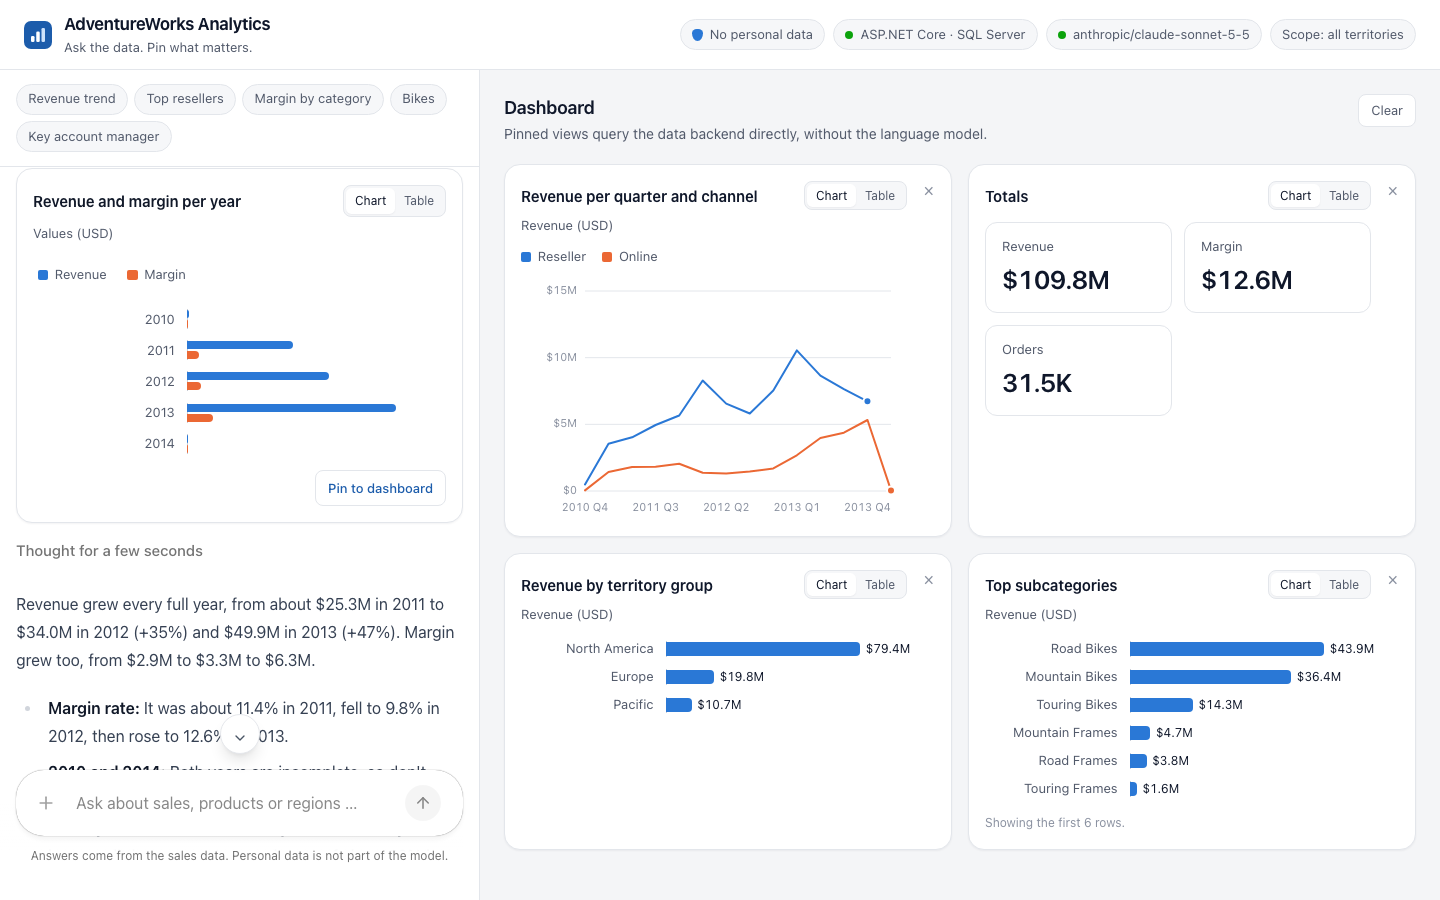
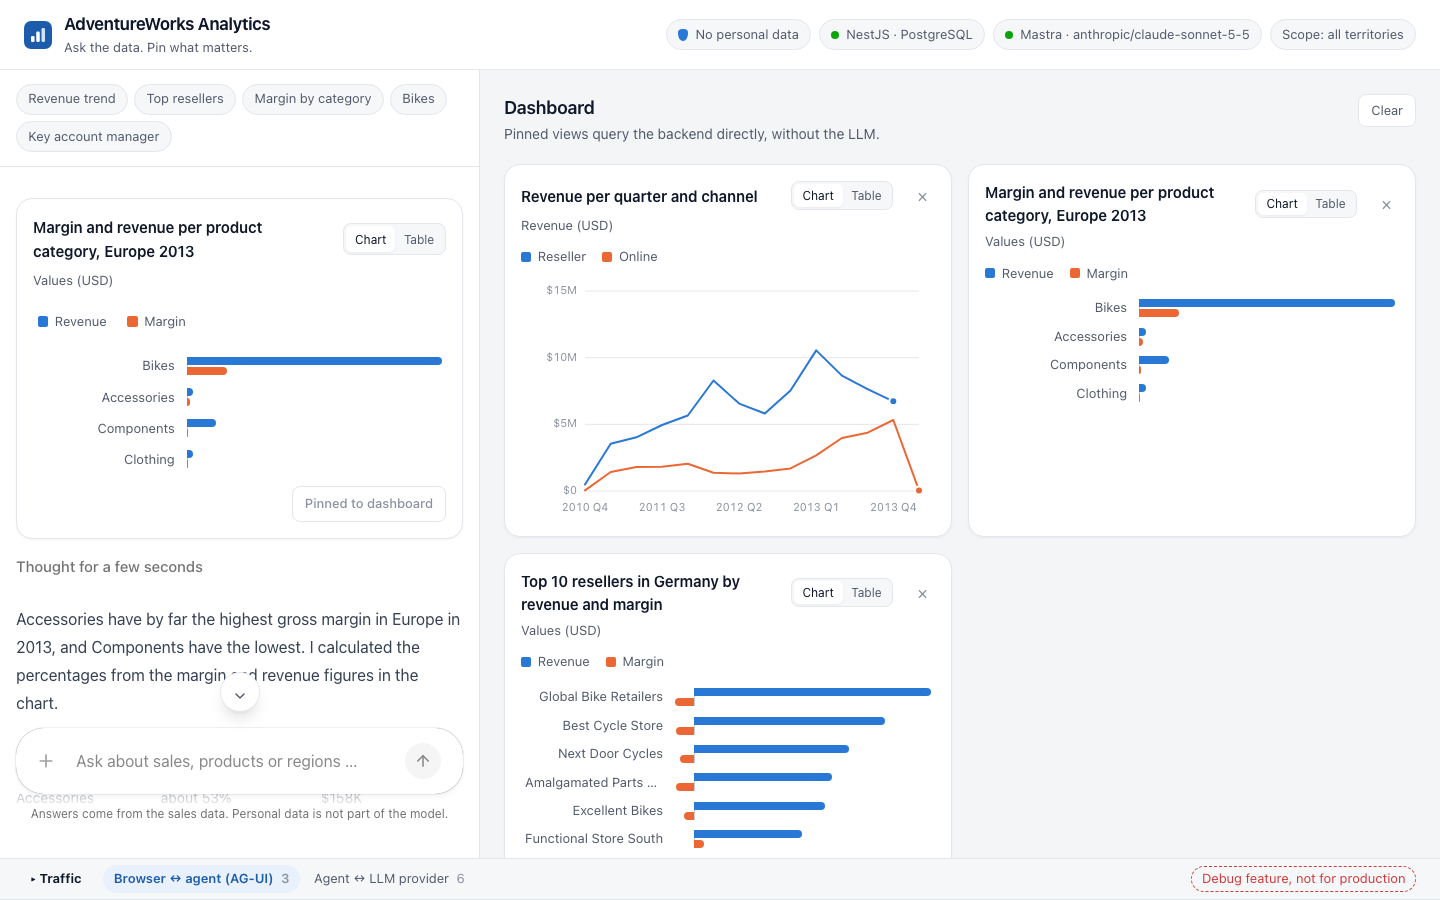
agentic-analytics: neue Screenshots (App, Debug-Fenster AG-UI und LLM, Absage zum Key Account Manager)

diff --git a/blog/2026-11-agentic-analytics/README.md b/blog/2026-11-agentic-analytics/README.md
@@ -853,7 +853,9 @@ For learning, the most useful part of the demo is a debug feature: below the cha
 - **Browser ↔ agent (AG-UI):** the `RunAgentInput` that the browser posts, with the whole conversation and the frontend tools, and every event that comes back: `RUN_STARTED`, the tool call arriving piece by piece in `TOOL_CALL_ARGS`, the result, the text deltas and `RUN_FINISHED`.
 - **Agent ↔ LLM provider:** the request in the provider's own format, with the system prompt, the tool schemas and the tool results, and the streamed answer. This is what the model really gets, including the defaults that the framework adds.
 
-![The traffic window below the chat: the AG-UI events of one run](traffic-window.png "Every AG-UI event of one run. The second tab shows the requests to the LLM provider.")
+![The traffic window below the chat: the AG-UI events of one run, with the product cards it produced above](traffic-window.png "Browser ↔ agent: the findProducts call arrives piece by piece, its result becomes the product cards.")
+
+![The second tab: the request to Anthropic with model, token limit and the system prompt](traffic-llm.png "Agent ↔ LLM provider: the request as Anthropic receives it, starting with the system prompt.")
 
 Each part is built in the language of its layer:
 
@@ -965,11 +967,12 @@ For a workshop with interchangeable backends, path B is handy. In a customer pro
 ## Test: Who Is the Key Account Manager?
 
 Time for the question the whole data layer was built for.
-The chat offers a few example questions above the input field. One of them is "Who is the key account manager of our biggest reseller?", and the agent answered:
+The chat offers a few example questions above the input field. One of them is "Who is the key account manager of our biggest reseller?":
 
-> I can't tell you that. Data on people, such as key account managers and sales representatives, is deliberately not available to me. I can show you the biggest reseller as a company, though.
+![The agent declines to name the key account manager and offers to look up the biggest reseller instead](key-account-manager.png "Company names yes, people no: the polite refusal from the system prompt.")
 
-Then it called `querySales`, showed the top 10 resellers as a bar chart, and named the biggest one: Brakes and Gears, with $877K from 12 orders.
+The wording changes from run to run, the content does not: no names of people, but an offer to analyse the reseller as a company.
+In some runs, the agent went on right away, called `querySales`, showed the top 10 resellers as a bar chart, and named the biggest one: Brakes and Gears, with $877K from 12 orders.
 That is exactly the line we drew: **company names yes, people no.**
 And if the model had tried anyway, there would have been nothing to find.
 
